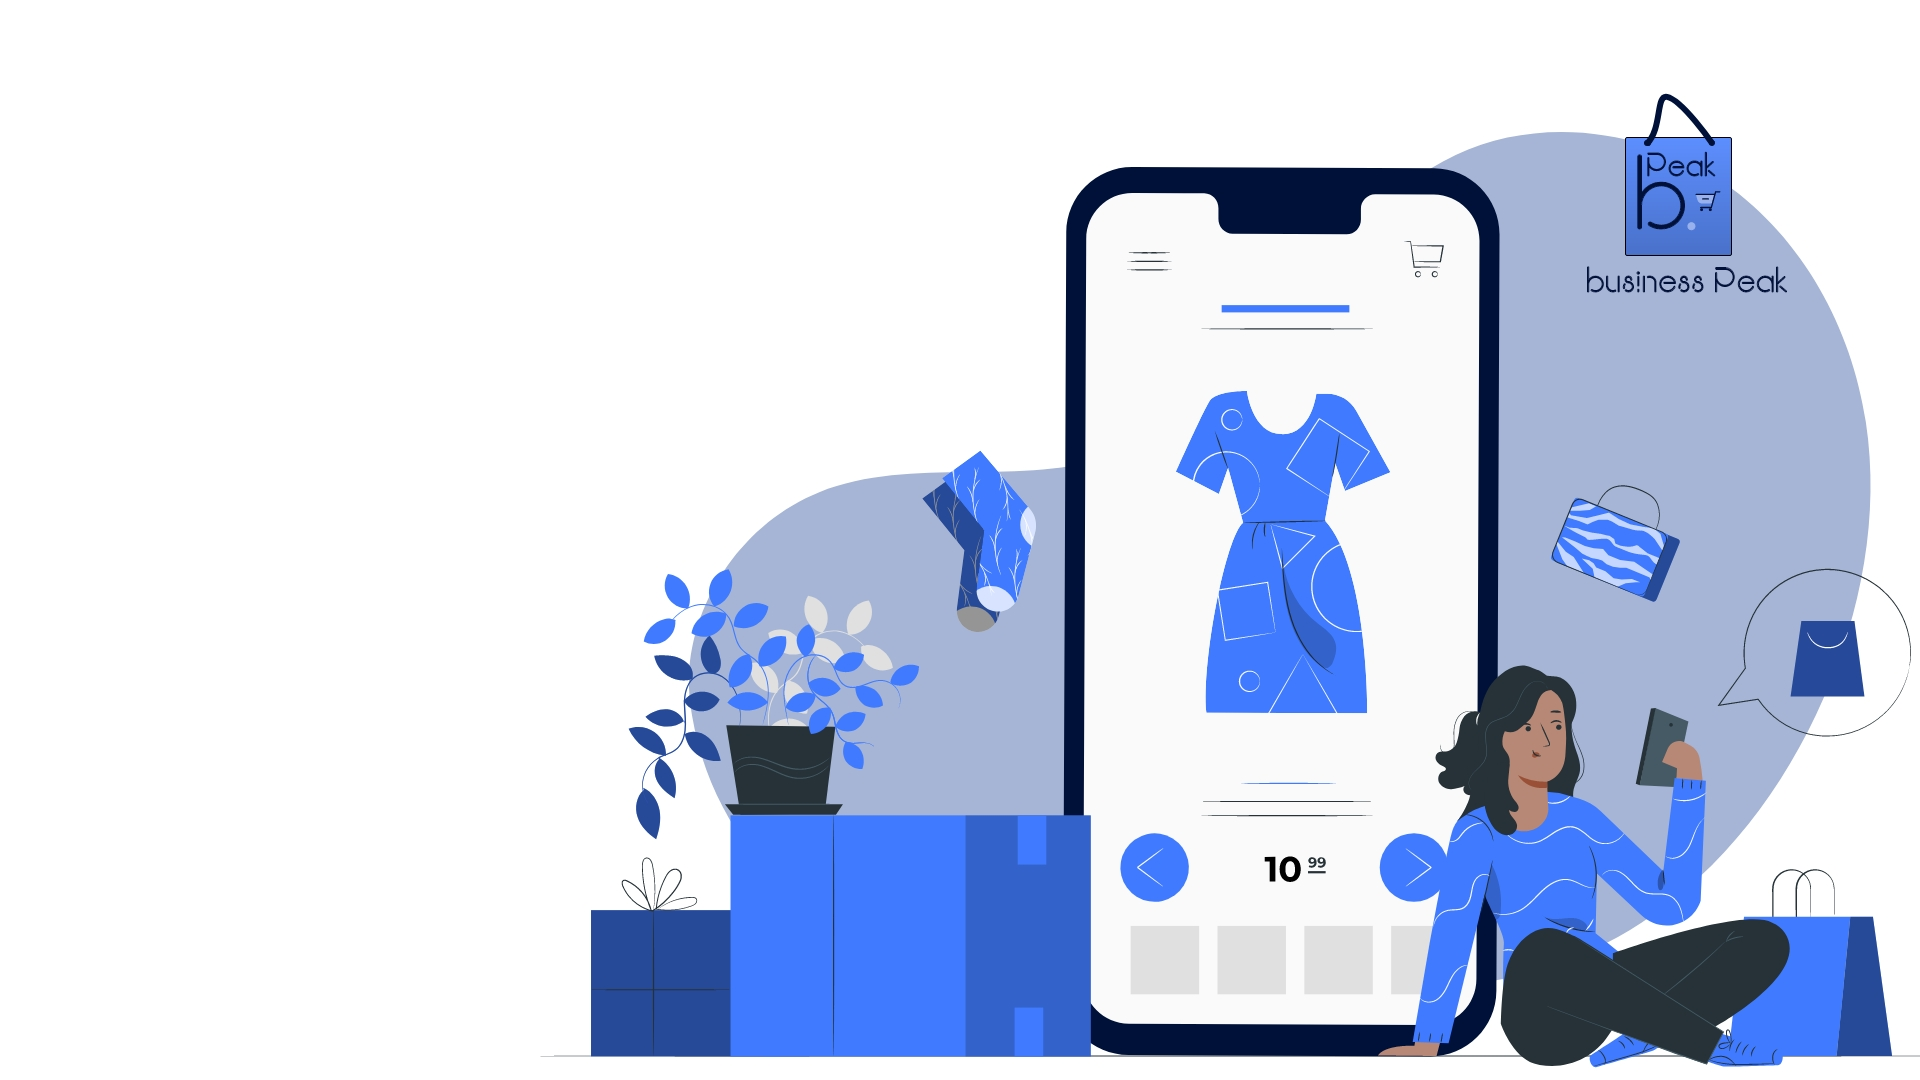
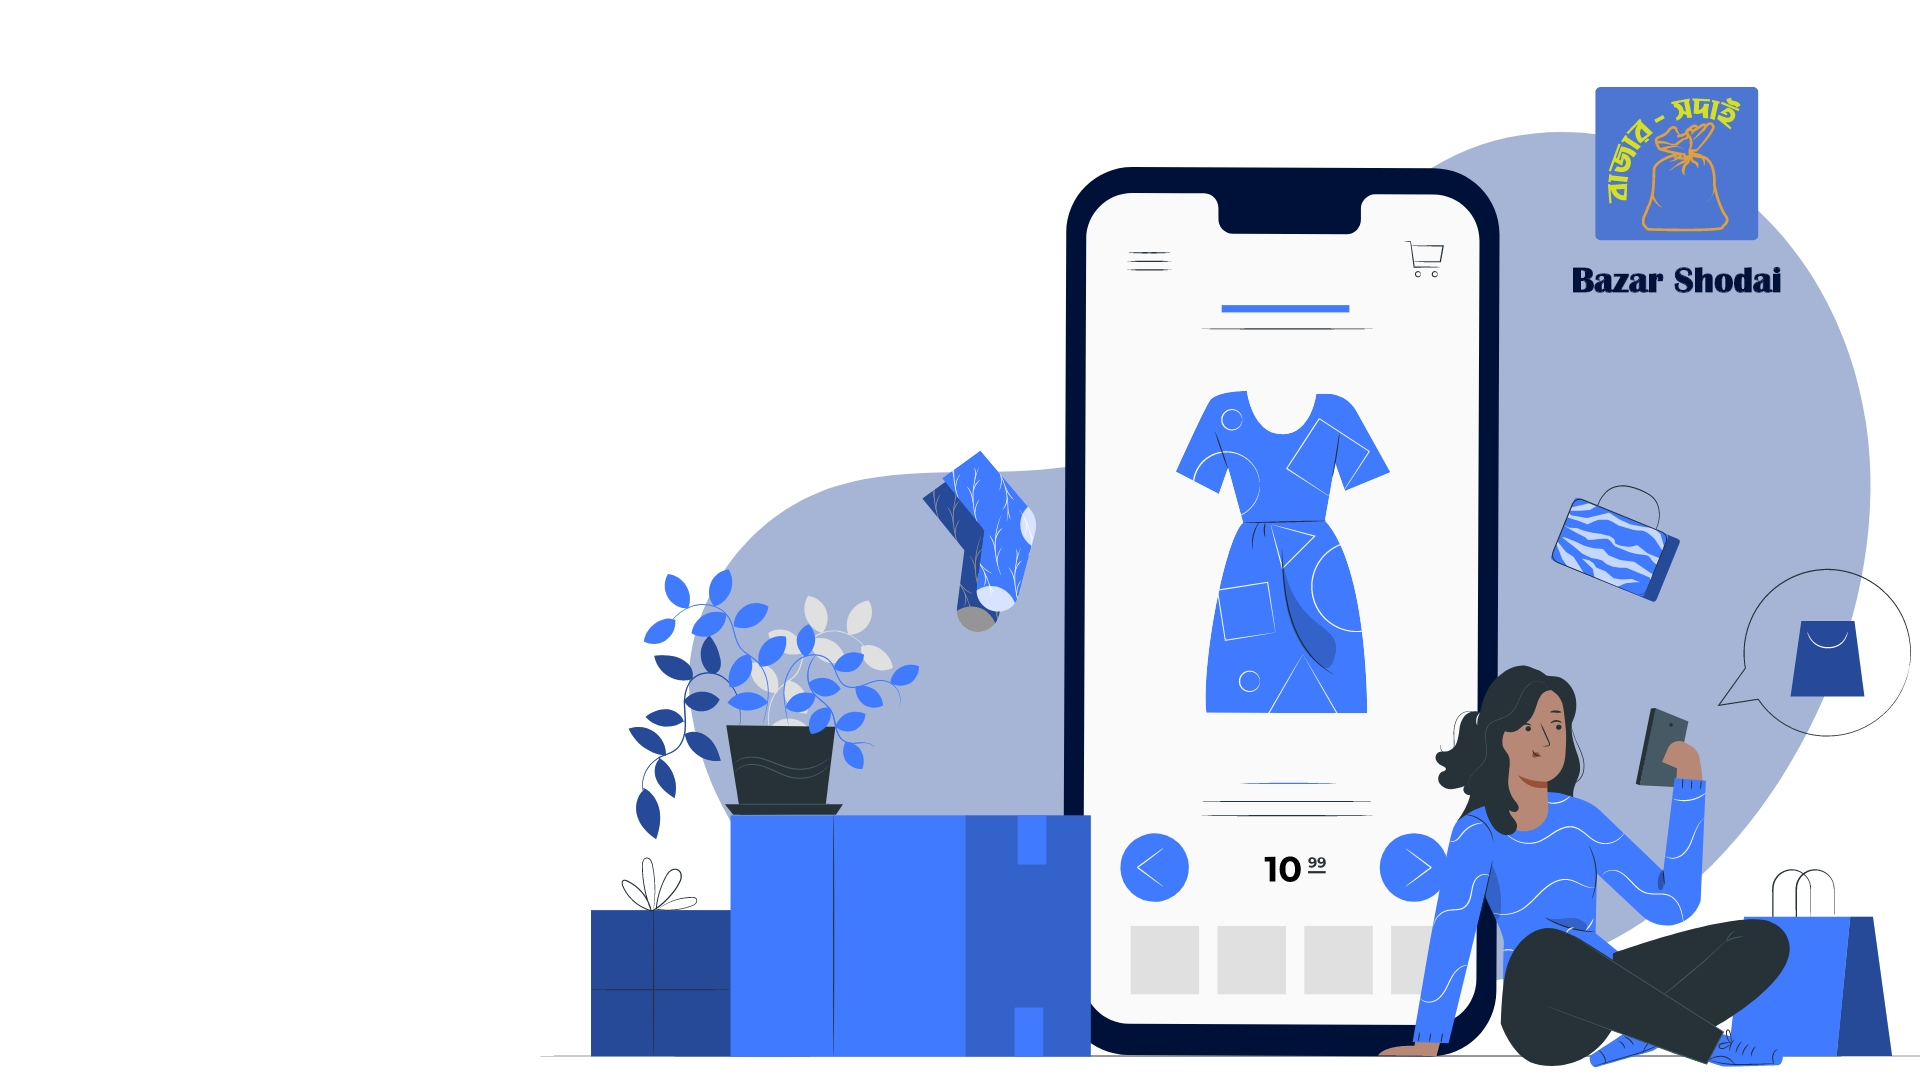
name changed

Changed region(s): [[0.8125, 0.0611, 0.9375, 0.275]]

diff --git a/resources/views/landing_page/index.blade.php b/resources/views/landing_page/index.blade.php
@@ -3,11 +3,11 @@
 <head>
     <meta charset="utf-8">
     <meta http-equiv="X-UA-Compatible" content="IE=edge">
-    <title>{{ config('app.name', 'Business Peak') }}</title>
+    <title>{{ config('app.name', 'Bazar Shodai') }}</title>
     <meta name="description" content="">
     <meta name="viewport" content="width=device-width, initial-scale=1">
     <!-- Fevicon -->
-    <link rel="shortcut icon" href="{{asset('images/favicon.ico')}}">
+    <link rel="shortcut icon" href="{{asset('images/favicon.png')}}">
     <!-- CSS
     ============================================ -->
     <!-- Bootstrap CSS -->
@@ -121,7 +121,7 @@
                     <div class="social-media-section">
                         <h2>Follow us</h2>
                         <div class="social-links">
-                            <a class="facebook" href="https://www.facebook.com/outfitzoid/" data-tooltip="Facebook"><i class="fa fa-facebook"></i></a>
+                            <a class="facebook" href="https://www.facebook.com/Bazarshodai22" data-tooltip="Facebook"><i class="fa fa-facebook"></i></a>
                         </div>
                     </div>
 
@@ -168,7 +168,7 @@
                                     <span class="icon_mail_alt"></span>
                                 </div>
                                 <div class="contact-info">
-                                    <p>Email: <span>service@bpeak.co</span></p>
+                                    <p>Email: <span>service@bshodai.co</span></p>
                                 </div>
                             </div>
                             <!--=======  End of single contact  =======-->

diff --git a/resources/views/layouts/app.blade.php b/resources/views/layouts/app.blade.php
@@ -11,7 +11,7 @@
         <meta name="api-token" content="{{ auth()->user()->api_token }}">
     @endauth
     <!-- Fevicon -->
-    <link rel="shortcut icon" href="{{asset('images/faviconx.png')}}">
+    <link rel="shortcut icon" href="{{asset('images/favicon.png')}}">
 
     <!-- app name -->
     <title>{{ config('app.name', 'Business Peak') }}</title>

diff --git a/resources/views/welcome.blade.php b/resources/views/welcome.blade.php
@@ -4,7 +4,7 @@
         <meta charset="utf-8">
         <meta name="viewport" content="width=device-width, initial-scale=1">
 
-        <title>Business Peak</title>
+        <title>Bazar Shodai</title>
 
         <!-- Fonts -->
         <link href="https://fonts.googleapis.com/css?family=Nunito:200,600" rel="stylesheet">
